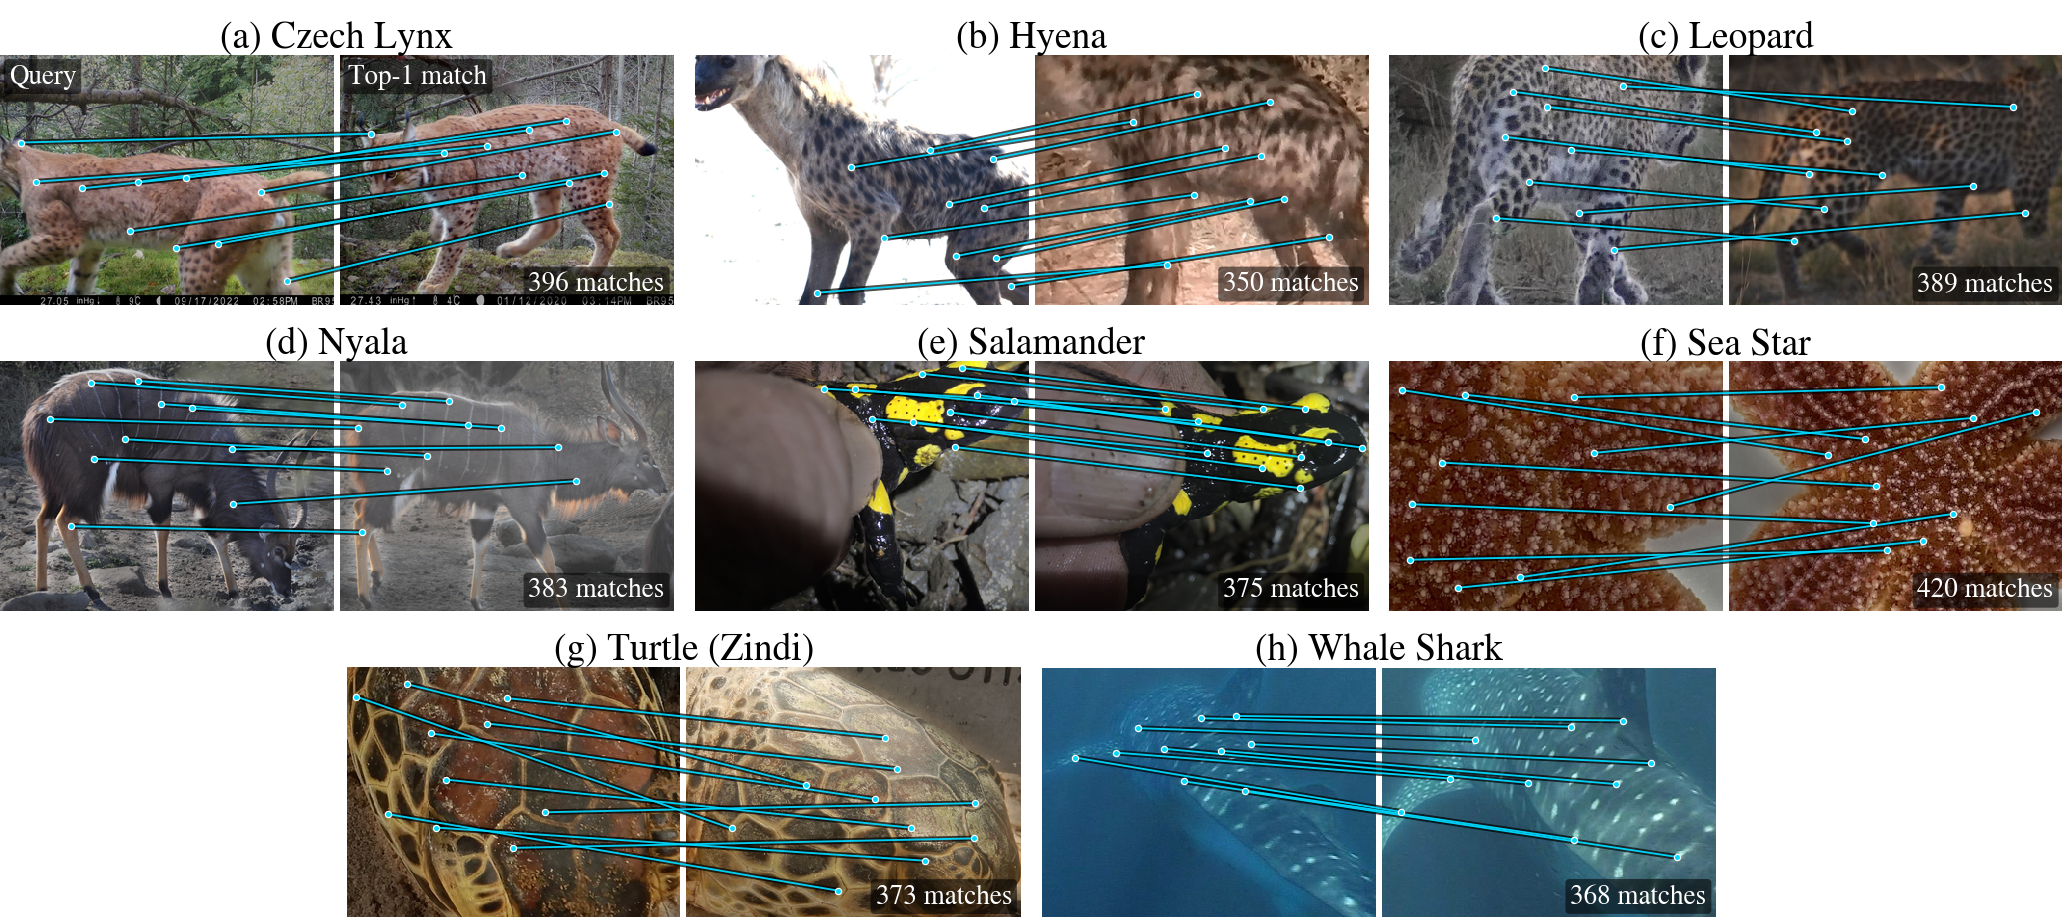
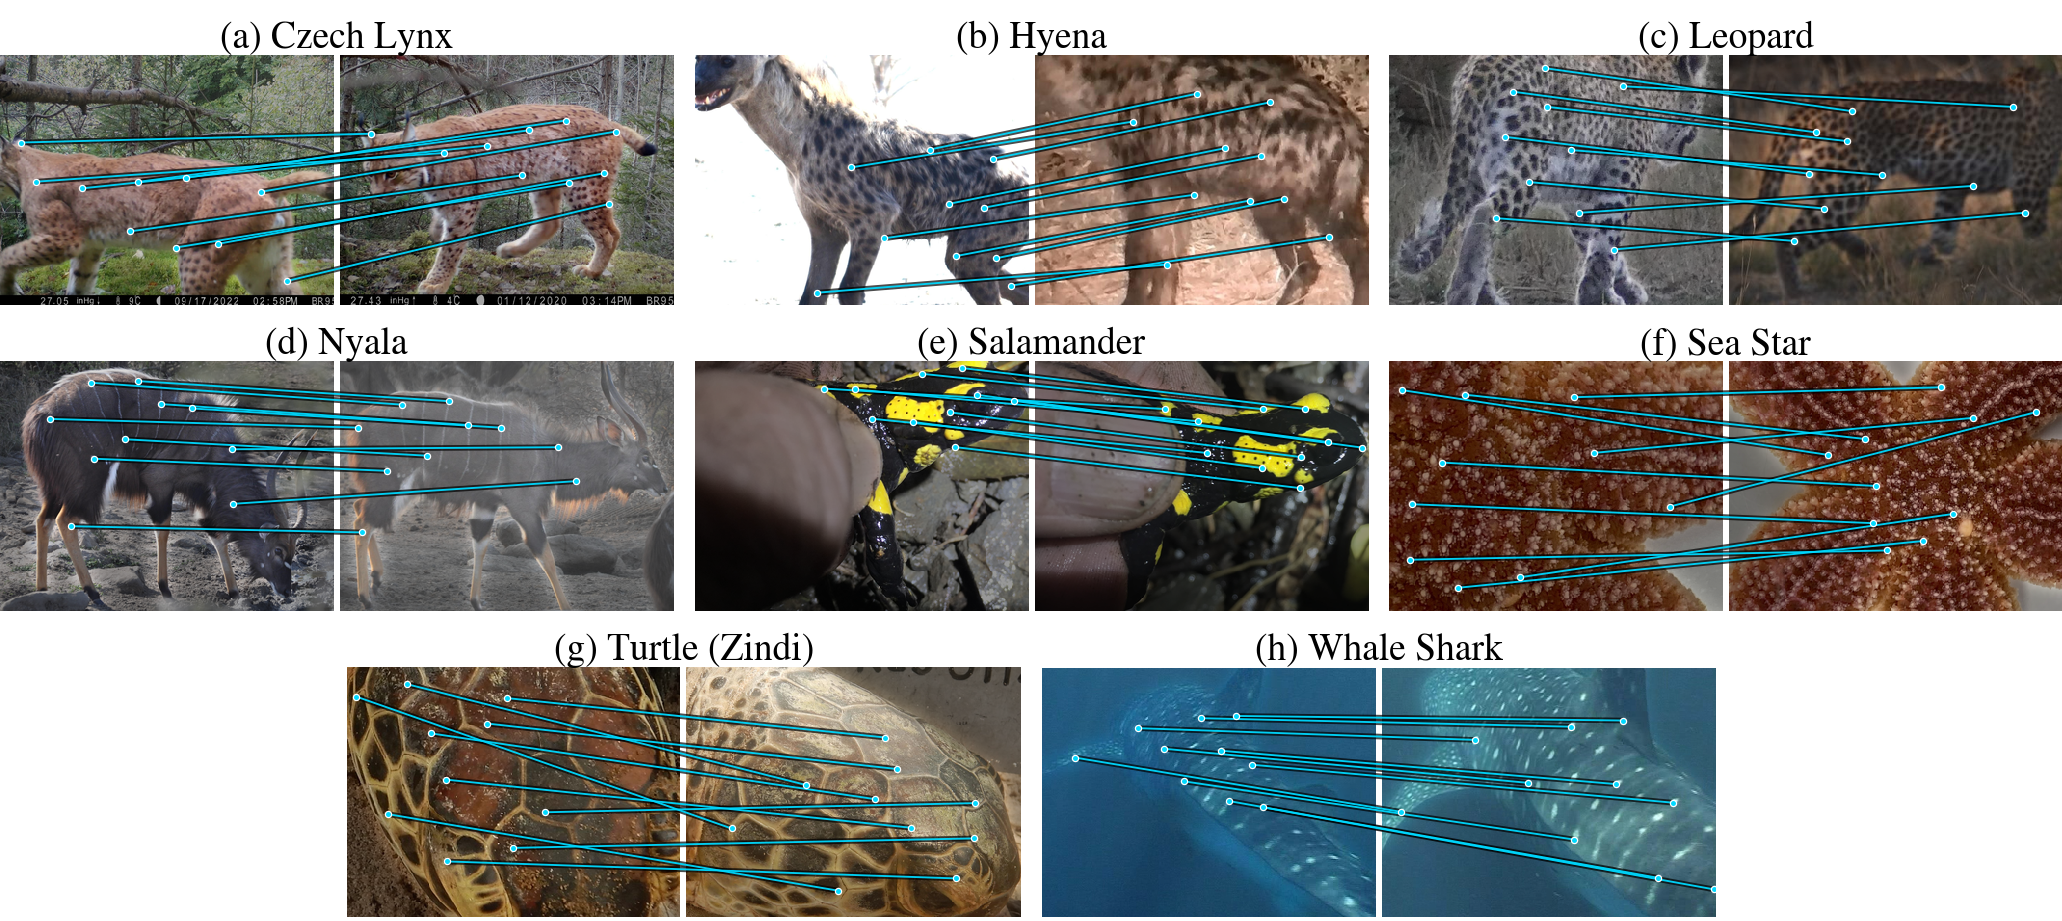
docs(page): text-free match figure and caption as in the paper
Claude-Session: https://claude.ai/code/session_01SMdxjbXRiNQq2NGr54XVd7

diff --git a/docs/index.md b/docs/index.md
@@ -125,7 +125,7 @@ At test time the adapted matcher scores the candidates of a query and returns a 
 
 <figure class="wm-figure" markdown>
 ![LoMa + WildMatch matches on correct top-1 retrievals](assets/figures/match_examples.png)
-<figcaption>LoMa + WildMatch matches on correct top-1 retrievals (k = 50). For each dataset, a query (left) and its top-1 gallery image (right) of the same individual. Lines show 10 of the matches, whose total is given in each panel. Matching uses background-removed inputs; the matches are drawn on the original photos.</figcaption>
+<figcaption>LoMa + WildMatch matches on correct top-1 retrievals (k = 50). For each dataset, a query (left) and its top-1 gallery image (right) of the same individual. Of the 350 to 420 matches found for each pair, lines show the 10 most confident. Matching uses background-removed inputs; the matches are drawn on the original photos.</figcaption>
 </figure>
 
 ## Limitations and outlook

diff --git a/CHANGELOG.MD b/CHANGELOG.MD
@@ -77,6 +77,10 @@ kept under Unreleased until a project version is assigned.
   and confidence; `synthetic-demo.js` shows the ranked strip, confidence-weighted lines,
   a strongest-N slider and hover confidences. Decisions: fine-tuned only, query vs all six,
   home page, labelled synthetic. GPU export pending.
+- 2026-10-02: paper clone at `2773089` (intro names the triplet margin objective; the
+  match figure switched to the text-free render and its caption to "of the 350 to 420
+  matches found for each pair, lines show the 10 most confident"); the page's match figure
+  and captions follow.
   Hero subtitle flows full width under the logo row and the author line is smaller.
 - 2026-10-02: `test_czechlynx_split_is_explicit_and_open_profile_can_be_enabled` failed once
   the editable CzechLynx launcher had only the LoMa `joint-fine-tuned` row active, because

diff --git a/docs/qualitative.md b/docs/qualitative.md
@@ -4,9 +4,10 @@
 
 One correct top-1 retrieval per dataset with the fine-tuned LoMa matcher at
 \(k = 50\). The query is on the left, its top-1 gallery image of the same individual on
-the right. Lines show 10 of the matches, chosen for spatial spread among the most
-confident correspondences; the total match count is given in each panel. Matching uses
-background-removed inputs, and the matches are drawn on the original photos.
+the right. Of the 350 to 420 matches found for each pair, lines show the 10 most
+confident, chosen for spatial spread. Matching uses background-removed inputs, and the
+matches are drawn on the original photos; the interactive viewer below gives every
+pair's match count.
 
 <figure class="wm-figure" markdown>
 ![LoMa + WildMatch matches on correct top-1 retrievals](assets/figures/match_examples.png)
